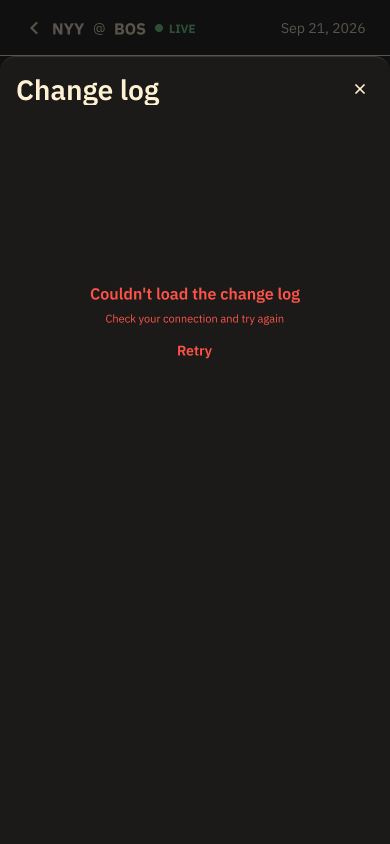
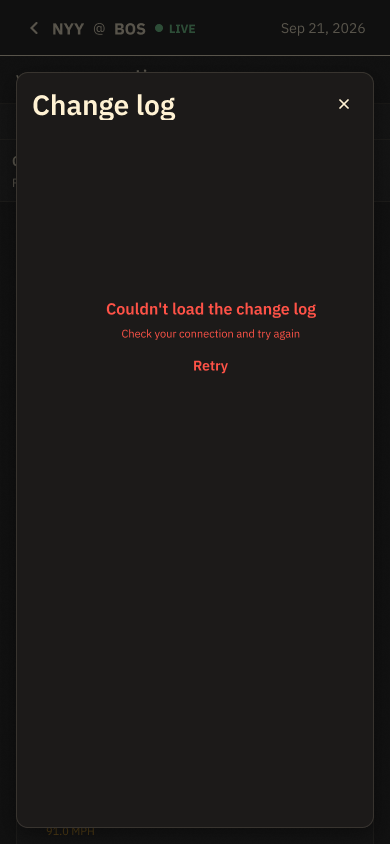
S192 checkpoint (parked for the owner's ratification): redraw A17 with a margin on mobile
The owner, asked to ratify A17, chose "Ratify with changes": "Add a margin
around the modal on mobile". Not a ratification. The changelog-modal
component's Size=Mobile variant now insets the window 16px from every edge
under the game's top bar (12px corners, hairline edge all round, the dialog's
shadow), its change log body filling the 326px inside; the four mobile modal
frames are re-exported. Size=Medium and its frames are unchanged. A17 stays a
draft.

Claude-Session: https://claude.ai/code/session_01FZHj4DugaMZ9cbajLmh1pW

Changed region(s): [[0.2154, 0.3389, 0.8, 0.4621], [0.0308, 0.0924, 0.4615, 0.154], [0.0308, 0.1848, 0.0615, 0.2156]]

diff --git a/docs/v3/visual/shell-scoreboard/amendments/A17.md b/docs/v3/visual/shell-scoreboard/amendments/A17.md
@@ -1,12 +1,12 @@
 # A17 — After updating on a game page, phone and tablet: a notice that opens the change log over the game (S192)
 
-Amends the ratified [shell-scoreboard design](../DESIGN.md) (ratified 2026-10-14) and its ratified amendment [A9](A9.md) (ratified 2026-11-19), whose after-update pointer S135 built. Story **S192**; built by S193. **Draft, not ratified**: drawn 2026-11-23 and shown to the owner for ratification. Its component edits are a draft until it is ratified, even though every instance in the live file already shows them: the live Figma file is never evidence of what is ratified (CLAUDE.md, "A shared design piece is one Figma component"); the sealed PNGs and ratified amendments are.
+Amends the ratified [shell-scoreboard design](../DESIGN.md) (ratified 2026-10-14) and its ratified amendment [A9](A9.md) (ratified 2026-11-19), whose after-update pointer S135 built. Story **S192**; built by S193. **Draft, not ratified**: drawn 2026-11-23 and shown to the owner for ratification; redrawn the same day with a margin around the phone's modal, the change the owner asked for (## Decisions), and shown again. Its component edits are a draft until it is ratified, even though every instance in the live file already shows them: the live Figma file is never evidence of what is ratified (CLAUDE.md, "A shared design piece is one Figma component"); the sealed PNGs and ratified amendments are.
 
-**Adds:** on a game page at mobile and medium widths, in place of A9's pointer, the after-update notice: A9's popover with no arrow, floating at the bottom right, which the fan taps to open the change log in a modal over the game page; that modal, holding A9's change log page (its title and its releases, loading, empty and error states), as a sheet under the game's top bar on mobile and a dialog on medium; how it closes.
+**Adds:** on a game page at mobile and medium widths, in place of A9's pointer, the after-update notice: A9's popover with no arrow, floating at the bottom right, which the fan taps to open the change log in a modal over the game page; that modal, holding A9's change log page (its title and its releases, loading, empty and error states), as a card inset 16px from the screen's edges under the game's top bar on mobile and a dialog on medium; how it closes.
 **Overrides:** A9's "The pointer … aimed at … the menu button (drawer)" and "How the pointer goes" on game pages at mobile and medium widths only (## Rules). Nothing else in A9: every other page, and every page on desktop, keeps A9's pointer as built (S135). No sealed PNG changes.
 **Repeals:** nothing.
 
-Source: https://www.figma.com/design/wqGKEFlvyxq0ObWZhRJdPF?node-id=778-33388 — the label "AE — After update on a game page, phone and tablet (S192, shell-scoreboard A17, draft)" on the **Shell & navigation** page and the ten frames under it (778:33389, 778:33705, 778:34042, 778:34414, 778:34807, 778:35181, 778:35576, 778:35949, 778:36343, 778:36721). The components on the **Components** page: `after-update-pointer`'s new variant `Arrow=None, Link=Yes` (778:25455), `changelog-modal` (778:26305) and `game-page-backdrop` (778:25659). Live file as drawn on 2026-11-23 (no named version; the Plugin API cannot save one).
+Source: https://www.figma.com/design/wqGKEFlvyxq0ObWZhRJdPF?node-id=778-33388 — the label "AE — After update on a game page, phone and tablet (S192, shell-scoreboard A17, draft)" on the **Shell & navigation** page and the ten frames under it (778:33389, 778:33705, 778:34042, 778:34414, 778:34807, 778:35181, 778:35576, 778:35949, 778:36343, 778:36721). The components on the **Components** page: `after-update-pointer`'s new variant `Arrow=None, Link=Yes` (778:25455), `changelog-modal` (778:26305) and `game-page-backdrop` (778:25659). Live file as redrawn on 2026-11-23 (no named version; the Plugin API cannot save one).
 
 ## Frames
 
@@ -16,7 +16,7 @@ Every export is a 1× PNG of the Figma frame with the same name, a viewport: 390
 | ------ | ------- | ------------- |
 | `game-updated-notice-mobile.png` | mobile | The game page right after updating: A9's popover with no arrow (Raised, a hairline edge, 8px corners, 264px wide), floating at the bottom right 16px from the edges, where A6's update notice sat when the fan pressed Update Now. It reads as A9's `Link=Yes` pointer: "Update complete" (SemiBold 14), "You're on v3.2.0. What changed is in the changelog." (muted 13) and `Open the changelog` (Primary Light, SemiBold 13), with A9's 2px countdown line along its foot. The whole popover is one tap target. |
 | `game-updated-notice-medium.png` | medium | The same, 24px from the bottom and right edges. |
-| `game-updated-changelog-mobile.png` | mobile | After the tap: the notice is gone and the change log is open over the game page. The game page stays in place under a 70% Dark scrim, its top bar (back, matchup, date) still showing above a sheet: Raised, 16px top corners, a hairline top edge, full width from under the 56px top bar to the bottom of the screen, 16px padding. Its first row is A9's page title `Change log` (Plex SemiBold 28) with A8's ✕ (28px) at the right; under it, 20px down, A9's release list exactly as on the page (`changelog-body`, `State=Releases, Size=Mobile`), which scrolls inside the sheet. |
+| `game-updated-changelog-mobile.png` | mobile | After the tap: the notice is gone and the change log is open over the game page. The game page stays in place under a 70% Dark scrim, its top bar (back, matchup, date) still showing above a card with a 16px margin around it: Raised, 12px corners, a hairline edge all round and a soft shadow (the medium dialog's), 358px wide, from 16px under the 56px top bar to 16px above the bottom of the screen, the dimmed game page showing in the margin on every side, 16px padding. Its first row is A9's page title `Change log` (Plex SemiBold 28) with A8's ✕ (28px) at the right; under it, 20px down, A9's release list exactly as on the page (`changelog-body`, `State=Releases, Size=Mobile`), its lines wrapping to the card's 326px, which scrolls inside the card. |
 | `game-updated-changelog-medium.png` | medium | The same as a dialog: 688px wide and centered, 80px from the top, 12px corners, a hairline edge and a soft shadow, 24px padding, the title and ✕ row then A9's release list (`Size=Wide`, 640px), scrolling inside the dialog. The game page, top bar included, is under the scrim. |
 | `game-updated-changelog-loading-mobile.png` | mobile | The modal while the release notes load: the title and ✕ kept, A9's centered loader below (`State=Loading`). |
 | `game-updated-changelog-loading-medium.png` | medium | The same in the dialog. |
@@ -29,8 +29,8 @@ Every export is a 1× PNG of the Figma frame with the same name, a viewport: 390
 
 - **Where it applies:** on a game page (`/game/:pk`, any room) at the mobile and medium pairings, the layouts where the game's top bar replaces the app header and no menu button shows (owner, 2026-11-23, chose the reading *"On game pages (phone/tablet) the notice is tappable and opens the changelog in a modal over the game; elsewhere the pointer stays as built."*). Every other page, desktop included, keeps A9's pointer as built (S135): aimed at the menu button on mobile and medium, at the rail's `Changelog` link on desktop, game pages on desktop included, since the rail stays there.
 - **The notice:** shows when A9's pointer would (a load whose release is newer than the one recorded), in A9's words, with no arrow, at the bottom right. The fan taps it, anywhere on it, to open the change log in the modal; the notice goes as the modal opens. Its link `Open the changelog` does the same as the rest of it: it opens the modal, not the `/changelog` page, so the fan stays on the game.
-- **The modal:** the change log opens over the game page, which stays where it was under the scrim (its live updates keep arriving behind it), as a sheet on mobile and a dialog on medium. It shows A9's change log page inside, title included, in A9's states: the releases, loading, empty (no approved release notes) and error with Retry, the same request and the same words as the `/changelog` page. The URL doesn't change. Hide Scores changes nothing in it (release notes carry no scores, A9).
-- **How it closes:** its ✕; a tap on the dimmed game page outside the sheet or dialog; Escape; and a phone's Back button or gesture, which closes the modal and stays on the game page instead of leaving it. Closing it returns the fan to the game page as they left it, and it doesn't open again on that load.
+- **The modal:** the change log opens over the game page, which stays where it was under the scrim (its live updates keep arriving behind it), as a card inset 16px from the screen's edges on mobile (under the game's top bar) and a dialog on medium. It shows A9's change log page inside, title included, in A9's states: the releases, loading, empty (no approved release notes) and error with Retry, the same request and the same words as the `/changelog` page. The URL doesn't change. Hide Scores changes nothing in it (release notes carry no scores, A9).
+- **How it closes:** its ✕; a tap on the dimmed game page outside the card or dialog; Escape; and a phone's Back button or gesture, which closes the modal and stays on the game page instead of leaving it. Closing it returns the fan to the game page as they left it, and it doesn't open again on that load.
 - **A9's other rules:** all hold as A9 has them. Never with the update notice: whenever A6's box is up, the notice doesn't show and a notice that was showing goes at once and doesn't come back on that load, as A9's pointer does (the modal, once the fan has opened it, stays open). Ten seconds: the notice goes after 10 seconds, its countdown line running them down, never pausing (A9's Q13); a tap opens the modal instead of only dismissing it, so the owner's *"dismiss on click"* becomes *"Open the changelog in a modal on click"* on these pages; the modal itself has no timer. Once per release: it shows only on the first load of a newer release, as A9's pointer, recorded the same way (S135 AC 3). Reduced motion: the notice neither fades nor slides and draws no countdown line, as A9's pointer, and the modal opens and closes without sliding.
 - **Moving between pages:** the notice and A9's pointer are one after-update moment on one load. If the fan leaves the game page while the notice shows (its back arrow to the scoreboard, say), the rest of its 10 seconds run as A9's pointer there, aimed at the menu button; if the fan opens a game page while A9's pointer shows, the rest run as this notice. Turning a tablet so the layout becomes desktop switches the same way.
 
@@ -39,10 +39,10 @@ Every export is a 1× PNG of the Figma frame with the same name, a viewport: 390
 Every piece these ten frames draw in more than one frame is one Figma component placed as instances, never a copy (CLAUDE.md, "A shared design piece is one Figma component"):
 
 - **The notice:** `after-update-pointer` (651:13439), A9's pointer component, given one new variant, `Arrow=None, Link=Yes` (778:25455): the `Arrow=Up, Link=Yes` variant without its arrow. The four ratified variants are unchanged, so no instance elsewhere changes.
-- **The modal:** `changelog-modal` (component set 778:26305), `Size=Mobile` (the scrim and the sheet) and `Size=Medium` (the scrim and the dialog). Its title is an instance of A9's `changelog-heading` (763:17006) and its body an instance of A9's `changelog-body` (763:17115), whose `State` (Releases, Empty, Loading, Error) each frame sets on its instance; nothing of the change log page is redrawn. On medium the loading and error bodies (A9's `Size=Wide`, drawn 736px wide on the page) fill the dialog's 640px. Its ✕ is A8's calendar ✕ (28px), the shell's existing close glyph for a sheet.
+- **The modal:** `changelog-modal` (component set 778:26305), `Size=Mobile` (the scrim and the inset card; the margin is drawn once, in this variant, so it reaches all four mobile modal frames, `game-updated-changelog-mobile`, `-loading-mobile`, `-empty-mobile` and `-error-mobile`, and no medium frame, whose `Size=Medium` variant is unchanged; the card's `changelog-body` instance is set to fill its 326px, an override on the instance only, so A9's `changelog-body` component and its page frames are unchanged) and `Size=Medium` (the scrim and the dialog). Its title is an instance of A9's `changelog-heading` (763:17006) and its body an instance of A9's `changelog-body` (763:17115), whose `State` (Releases, Empty, Loading, Error) each frame sets on its instance; nothing of the change log page is redrawn. On medium the loading and error bodies (A9's `Size=Wide`, drawn 736px wide on the page) fill the dialog's 640px. Its ✕ is A8's calendar ✕ (28px), the shell's existing close glyph for a sheet.
 - **The game page:** `game-page-backdrop` (component set 778:25659), `Size=Mobile` (390×844) and `Size=Medium` (768×1024), each a viewport-sized copy of game-shell's ratified Live room frame (`status-marker-game-live-mobile` 773:25164 and `live-medium` 569:13034), so every frame places the same page. A17 ratifies none of the page itself.
 
-What S193 reuses, so nothing is designed in code: the after-update state and its once-per-release record (`useAfterUpdate`, `checkAfterUpdate`, `web/src/pwa/afterUpdate.tsx`) and the pointer's body and countdown line (`AfterUpdatePointer`'s `PointerBody` and `Countdown`); the change log page's body (`web/src/pages/ChangelogPage.tsx`, with `ViewState` for its loading, empty and error states); Mantine's `Modal` for the dialog and its full-width bottom placement for the sheet, as A8's calendar sheet is placed; the shell's `LayoutVariant` (`web/src/layout/variant.ts`) and its game-route test (`AppShellLayout.tsx`) to choose the notice or A9's pointer.
+What S193 reuses, so nothing is designed in code: the after-update state and its once-per-release record (`useAfterUpdate`, `checkAfterUpdate`, `web/src/pwa/afterUpdate.tsx`) and the pointer's body and countdown line (`AfterUpdatePointer`'s `PointerBody` and `Countdown`); the change log page's body (`web/src/pages/ChangelogPage.tsx`, with `ViewState` for its loading, empty and error states); Mantine's `Modal` for both, the phone's card inset 16px from every edge under the game's top bar; the shell's `LayoutVariant` (`web/src/layout/variant.ts`) and its game-route test (`AppShellLayout.tsx`) to choose the notice or A9's pointer.
 
 ## Decisions
 
@@ -50,12 +50,14 @@ Recorded as the owner stated them.
 
 - What happens on a game page (owner, 2026-11-23, asked *"On a phone or tablet, if you press Update Now while on a game page, the "Update complete" pointer has nothing to point at: game pages have no menu button. It runs its 10 seconds unseen and won't show again for that release. What should it do?"*): "Open the changelog in a modal on click"
 - How to read that (owner, 2026-11-23, asked *"On a phone or tablet, after you update while on a game page, should the "Update complete" notice be something you tap that opens the changelog in a window over the game page, without leaving it? That's the reading of your "Open the changelog in a modal on click" answer; S192 (its design) needs it confirmed before drawing."*): "Yes, that reading", the option reading *"On game pages (phone/tablet) the notice is tappable and opens the changelog in a modal over the game; elsewhere the pointer stays as built."*
+- The phone's modal (owner, 2026-11-23, asked *"Do you ratify shell-scoreboard A17, the "Update complete" notice on game pages (phone and tablet) that opens the changelog in a window over the game?"*, chose "Ratify with changes", then asked which changes): "Add a margin around the modal on mobile", and again later: "S192: add a margin around the mobile model … Modal". Not a ratification: A17 was redrawn with the margin and goes back to the owner.
 
 ## Choices made while drawing (to accept or change at ratification)
 
 - *Agent:* the notice keeps A9's words, link line and countdown, drops only the arrow, and sits at the bottom right, where A6's update notice was when the fan pressed Update Now (16px from the edges on mobile, 24px on medium).
 - *Agent:* the link `Open the changelog` opens the modal too, so nothing on the notice leaves the game page.
-- *Agent:* on mobile the modal is a sheet from under the game's top bar to the bottom of the screen, keeping the top bar visible under the scrim so the fan sees they are still on the game; on medium it is a centered 688px dialog. Both use A8's 70% Dark scrim and ✕.
+- *Agent:* on mobile the modal is a card under the game's top bar, keeping the top bar visible under the scrim so the fan sees they are still on the game; on medium it is a centered 688px dialog. Both use A8's 70% Dark scrim and ✕.
+- *Agent:* the phone's margin (the owner's change, ## Decisions) is 16px on every side, the shell's phone gutter and the notice's own distance from the edges, and the card takes the medium dialog's 12px corners, full hairline edge and shadow, since it no longer meets the screen's edges.
 - *Agent:* Back closes the modal and stays on the game page (A8's calendar, by contrast, leaves Back alone: the owner's *"calendar being open does not affect back button"*).
 - *Agent:* if the fan moves between a game page and another page while the after-update moment is up, the notice and A9's pointer hand over to each other for the rest of its 10 seconds.
 
